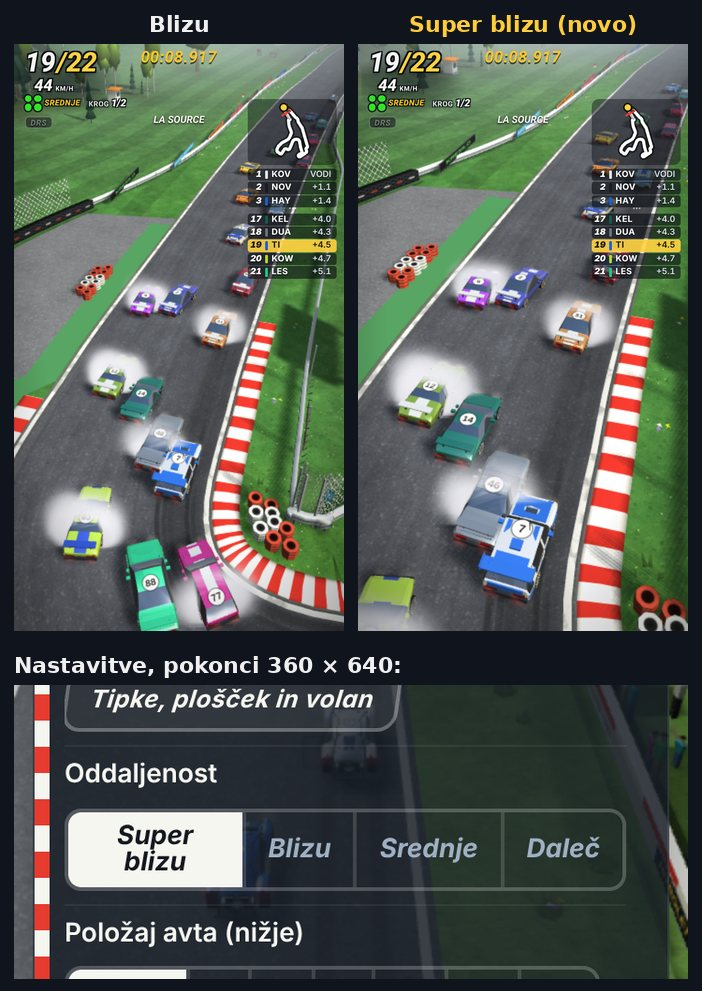
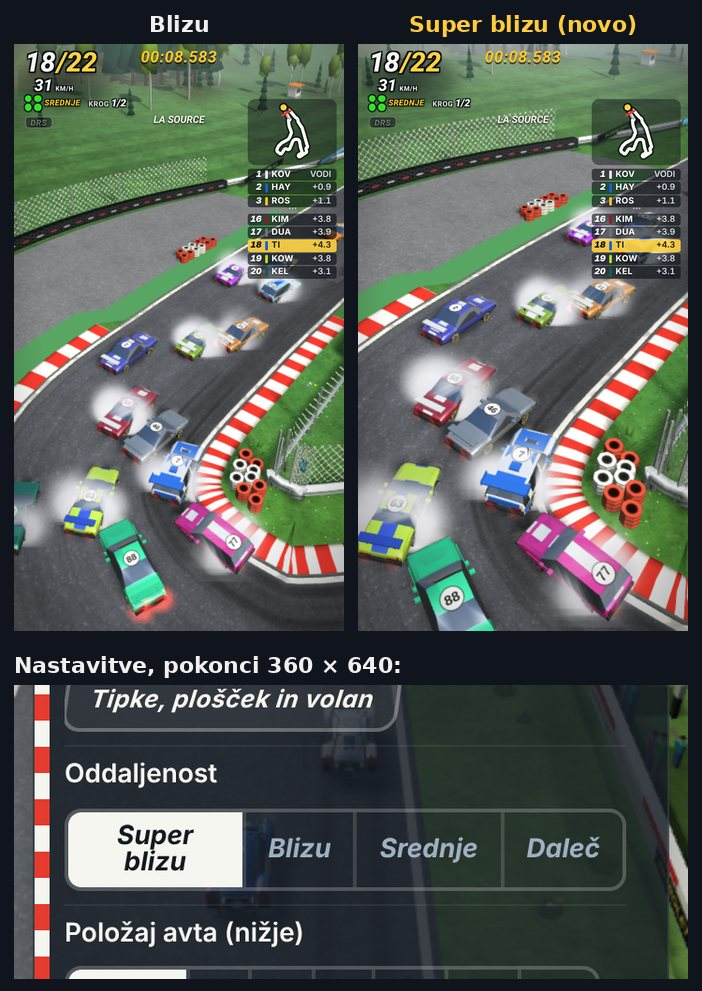
Slike: Super blizu, avto na mestu Blizu, le večji (#650)
Claude-Session: https://claude.ai/code/session_01Ck3D3UYc2CUhyVhHTr2k9e

diff --git a/README.md b/README.md
@@ -5,4 +5,4 @@ Za pull request #650 (veja `popravki/kamera-meni`, račun jure.kopac26). Veja je
 - `kamera-pokonci-prej-potem.jpg`: kamera za avtom na pokončnem telefonu (360 × 640, Spa, isti trenutek dirke pred Raidillonom, 173 km/h). Zgoraj prej, spodaj potem, po stopnjah Oddaljenosti: Blizu, Srednje (privzeto), Daleč. Nova Srednje je točno prejšnja Blizu, nova Blizu je še bližje, nova Daleč je približno prejšnja Srednje. Čisto spodaj ležeče (640 × 360): enako kot prej.
 - `meni-izbira-proge-prej-potem.jpg`: izbira proge (Spa). Zgoraj ležeče 1000 × 462, levo prej, desno potem: vrstica s podatki in *Race!* čisto na dnu, gumb *Back* (puščica in napis) enako velik kot *Race!*, večja zastava. Spodaj levo pokonci 462 × 1000, prej in potem: *Back* s puščico in napisom, večja zastava. Spodaj desno manjši telefon ležeče 640 × 360, prej (zgoraj) in potem (spodaj).
 - `gorske-proge-lezece-prej-potem.jpg`: gorske proge ležeče (kamera 1, zemljevid), Pikes Peak in Tianmen, 1000 × 462; levo prej, desno potem: izbrana kartica od imena proge do spodnje vrstice, zemljevid obrnjen kot pokonci (start spodaj, cilj zgoraj), vreme stolpec desno, gumbi kamer stolpec levo pod grafom višin, števec spodaj levo; proga med njimi, ne pod gumbi. Spodaj pokonci (462 × 1000): nespremenjeno. Dirkališča ostanejo, kot so.
-- `super-blizu.jpg`: nova četrta stopnja Oddaljenosti *Super blizu* (samo pokonci; ležeče je kamera kot pri Blizu). Zgoraj kamera za avtom na pokončnem telefonu (360 × 640, Spa, isti trenutek dirke pri La Source), levo Blizu, desno Super blizu; spodaj vrstica Oddaljenost v Nastavitvah (360 × 640).
+- `super-blizu.jpg`: nova četrta stopnja Oddaljenosti *Super blizu* (samo pokonci; ležeče je kamera kot pri Blizu). Zgoraj kamera za avtom na pokončnem telefonu (360 × 640, Spa, isti trenutek dirke pri La Source), levo Blizu, desno Super blizu: pogled Blizu, pomanjšan (tudi pogled naprej), zato je avto na istem mestu zaslona, le večji; spodaj vrstica Oddaljenost v Nastavitvah (360 × 640).
